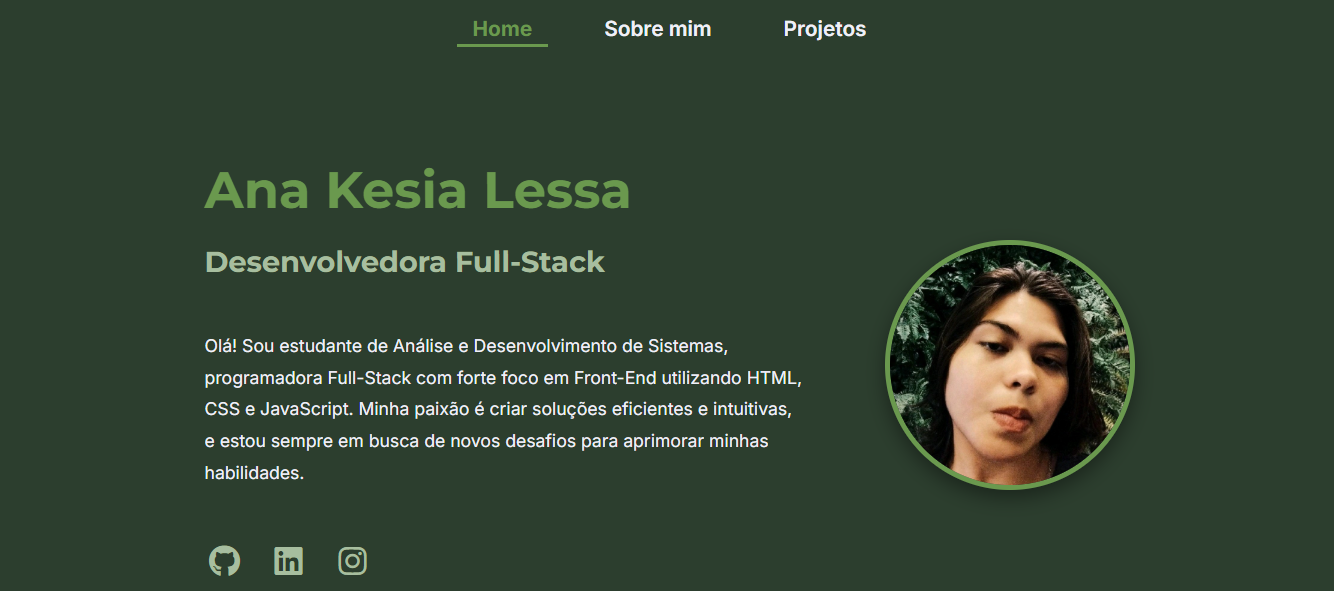
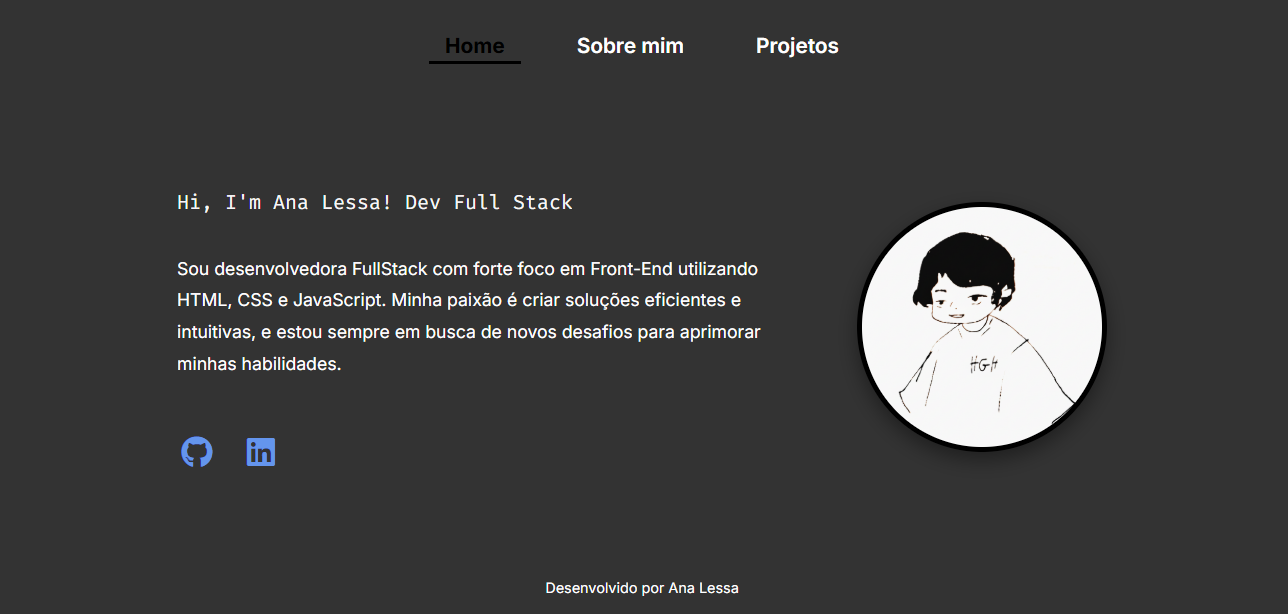
adiciona nova paleta de cores

diff --git a/projects.html b/projects.html
@@ -37,7 +37,7 @@
                     </div>
                 </div>
             </article>
-            <article class="project-card"> <img src="/assets/project-portfolio-developer1.png" alt="Miniatura do Portfólio de Desenvolvedora" class="project-thumbnail"> <div class="project-info">
+            <article class="project-card"> <img src="/assets/project-portfolio-developer.png" alt="Miniatura do Portfólio de Desenvolvedora" class="project-thumbnail"> <div class="project-info">
                     <h3>Portfólio de Desenvolvedora</h3>
                     <p>Este portfólio foi desenvolvido com os objetivos de apresentar meus projetos, destacar minhas habilidades técnicas e proporcionar uma navegação fluída e interativa para recrutadores e visitantes.</p>
                     <div class="project-links"> <a href="https://portfolio-analessa.vercel.app/" target="_blank" class="project-link-btn">
@@ -61,13 +61,13 @@
                     </div>
                 </div>
             </article>
-            <article class="project-card"> <img src="/assets/project-meu-curriculo.png" alt="Miniatura do Meu Currículo" class="project-thumbnail"> <div class="project-info">
-                <h3>Meu Currículo</h3>
-                <p>Este é um projeto de currículo online desenvolvido para apresentar minhas habilidades, experiência profissional, formação acadêmica e projetos pessoais de forma interativa e acessível.</p>
-                <div class="project-links"> <a href="https://meu-curriculo-iota.vercel.app" target="_blank" class="project-link-btn">
+            <article class="project-card"> <img src="/assets/project-catalogo-ivi-afro-braids.png" alt="Miniatura do Catálogo Ivi Afro Braids" class="project-thumbnail"> <div class="project-info">
+                <h3>Catálogo - Ivi Afro Braids</h3>
+                <p>Este projeto é uma landing page completa e responsiva criada para exibir os serviços e a cultura por trás da arte do trancismo. O site foi desenvolvido para ser uma vitrine digital, permitindo que clientes conheçam os valores, vejam os modelos de trabalho e agendem seus horários de forma fácil e direta.</p>
+                <div class="project-links"> <a href="https://catalogo-ivi-afro-braids.vercel.app" target="_blank" class="project-link-btn">
                         <i class="fas fa-external-link-alt"></i>Visualizar Projeto
                     </a>
-                    <a href="https://github.com/analessp/meu-curriculo" target="_blank" class="project-link-btn">
+                    <a href="https://github.com/analessp/catalogo-ivi-afro-braids" target="_blank" class="project-link-btn">
                         <i class="fab fa-github"></i> Código no Github
                     </a>
             </div>

diff --git a/index.html b/index.html
@@ -26,11 +26,11 @@
     <main>
         <div class="introduce">
             <span style="display: inline-flex; align-items: center; gap: 8px;">
-            <img src="https://readme-typing-svg.demolab.com?font=Fira+Code&pause=1000&color=F7F7F7&width=395&lines=Hi%2C+I'm+Ana+Lessa!+Dev+FullStack"
+            <img src="https://readme-typing-svg.demolab.com?font=Fira+Code&pause=1000&color=F7F7F7&width=395&lines=Hi%2C+I'm+Ana+Lessa!+Dev+Full+Stack"
             alt="Typing SVG"
             style="object-fit: contain; transform: translateY(2px);" />
         </span>
-            <p>Sou desenvolvedora FullStack com forte foco em Front-End utilizando HTML, CSS e JavaScript. Minha paixão é criar soluções eficientes e intuitivas, e estou sempre em busca de novos desafios para aprimorar minhas habilidades.</p>
+            <p>Sou desenvolvedora Full Stack utilizando HTML, CSS e JavaScript. Minha paixão é criar soluções eficientes e intuitivas, e estou sempre em busca de novos desafios para aprimorar minhas habilidades.</p>
         <ul class="social-links">
             <li> 
                 <a href="https://github.com/analessp">
@@ -44,7 +44,7 @@
                 </li>
             </ul>
         </div>
-        <img src="/assets/profile.jpg" alt="Foto de perfil de Ana Lessa" class="logo">
+        <img src="/assets/avatar.png" alt="Foto de perfil de Ana Lessa" class="logo">
         </main>
     <footer>Desenvolvido por Ana Lessa</footer>
 </body>

diff --git a/about-me.html b/about-me.html
@@ -28,8 +28,8 @@
     <main class="about-me-main">
             <section class="about-me">
             <h1>Sobre mim</h1>
-            <img src="/assets/profile.jpg" alt="Foto de perfil de Ana Lessa" class="about-me-logo">
-            <p>Sou Ana Lessa, uma desenvolvedora apaixonada por criar soluções digitais que transformam ideias em realidade. Minha jornada no mundo da programação começou com a curiosidade de entender como a tecnologia funciona e evoluiu para uma paixão por construir interfaces intuitivas e funcionais. Tenho experiência em desenvolvimento front-end, focada em entregar experiências de usuário ricas e responsivas. Estou sempre em busca de novos desafios e oportunidades para aprender e crescer.</p>
+            <img src="/assets/avatar.png" alt="Foto de perfil de Ana Lessa" class="about-me-logo">
+            <p>Sou Ana Lessa, uma desenvolvedora apaixonada por criar soluções digitais que transformam ideias em realidade. Minha jornada no mundo da programação começou com a curiosidade de entender como a tecnologia funciona e evoluiu para uma paixão por construir interfaces intuitivas e funcionais. Tenho experiência em desenvolvimento Full Stack, focada em entregar experiências de usuário ricas e responsivas. Estou sempre em busca de novos desafios e oportunidades para aprender e crescer.</p>
             </section>
             <section class="skills-section">
             <h2>Minhas Habilidades</h2>

diff --git a/style/about-me.css b/style/about-me.css
@@ -61,17 +61,17 @@
 }
 
 .skill-category {
-    background-color: #000;
+    background-color: #333;
     border-radius: 10px;
     padding: 0.8rem;
     box-shadow: 0 5px 15px rgba(0, 0, 0, 0.3);
-    border: 1px solid var(--secondary-color);
+    border: 1px solid var(--primary-color);
     text-align: center;
 }
 
 .skill-category h3 {
     font-size: 1.6rem;
-    color: var(--secondary-color);
+    color: var(--light-text);
     margin-bottom: 1.5rem;
 }
 

diff --git a/style/style.css b/style/style.css
@@ -2,11 +2,11 @@
 @import url('https://fonts.googleapis.com/css2?family=Inter:wght@300;400;500;600;700&display=swap');
 
 :root {
-    --primary-color: #6a994e;
-    --background-dark: #000;
-    --light-text: #f0f0f8;
-    --secondary-color: #a7be9f;
-    --accent-color: #c7a184;
+    --primary-color: #000;
+    --background-dark: #333;
+    --light-text: #fff;
+    --secondary-color: #6495ed;
+    --accent-color: #90ee90;
 }
 
 * {

diff --git a/style/projects.css b/style/projects.css
@@ -57,7 +57,7 @@
 
 .project-info h3 {
     font-size: 1.8rem;
-    color: var(--secondary-color);
+    color: var(--light-text);
     margin-bottom: 0.5rem;
 }
 
